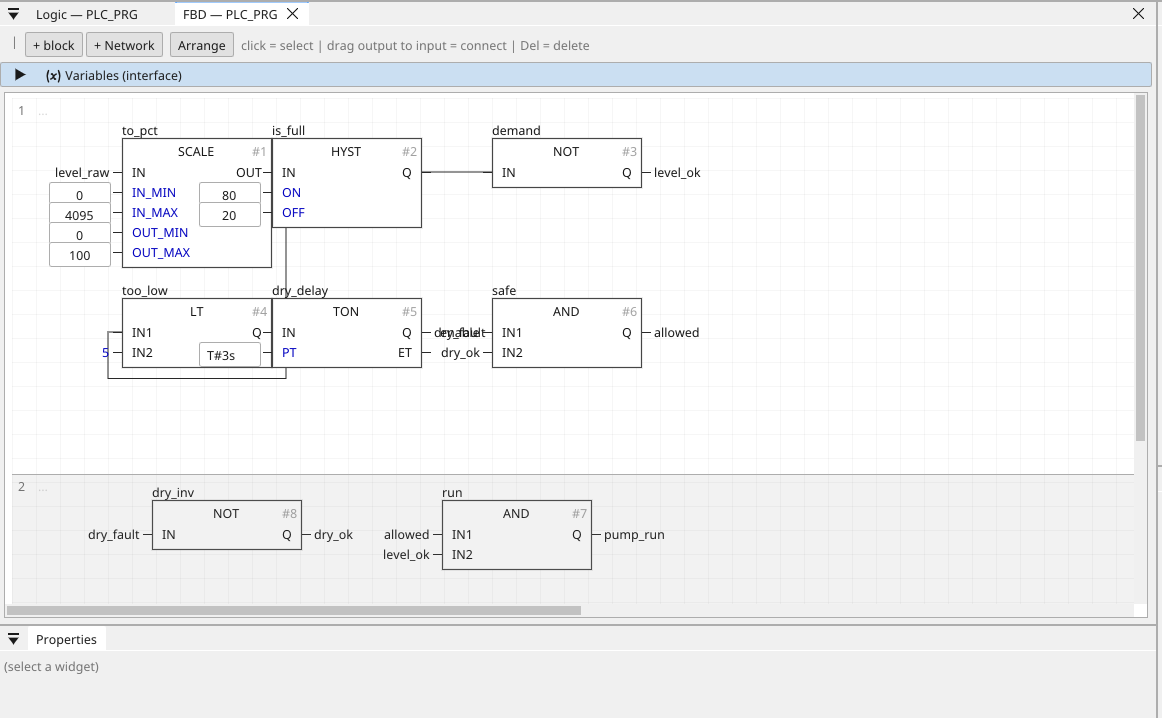
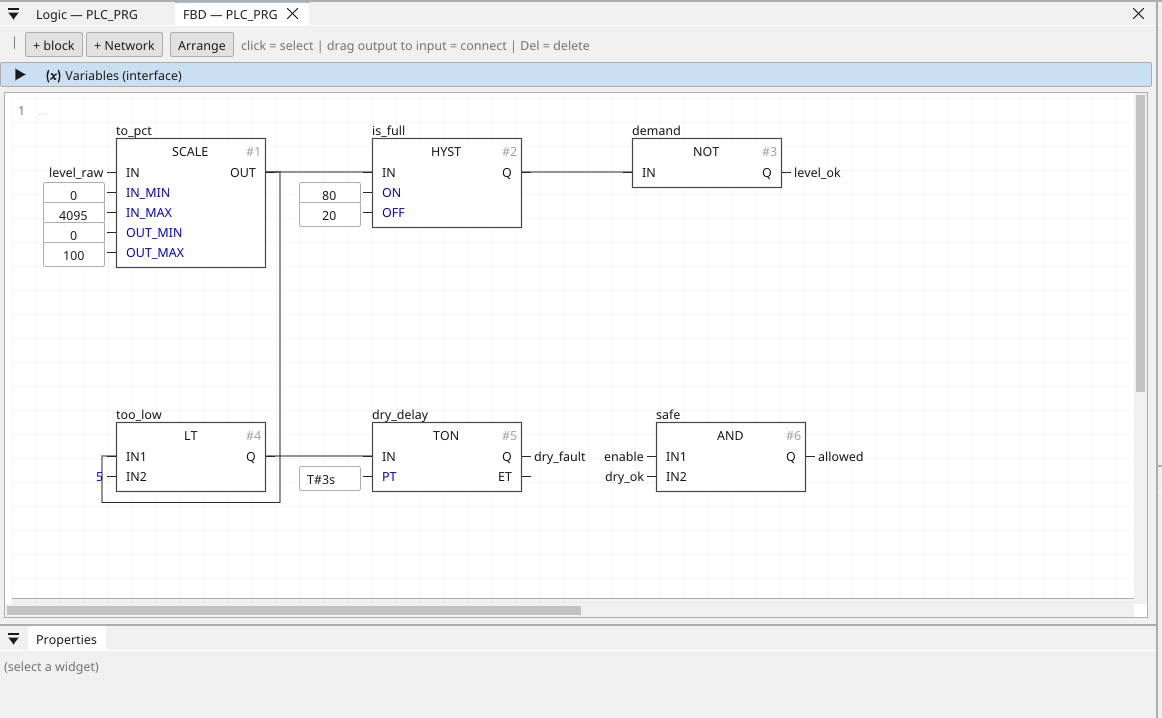
FBD: orthogonal wires and the no-overlap rule in the mouse section; the networks screenshot

diff --git a/docs/editor-controls.md b/docs/editor-controls.md
@@ -106,8 +106,12 @@ selection, `Ctrl+Z` takes anything back.
   (*+ Network*; right-click the number lane to insert, move or delete
   one); blocks come from the **Toolbox** (click adds into the
   selected network); wires are drawn **pin to pin** — click an
-  output, click an input. A wire that would cross networks is
-  refused.
+  output, click an input — and run as horizontal and vertical
+  segments, a signal that feeds a block to its left goes around
+  underneath. A wire that would cross networks is refused. Blocks
+  never overlap: a block occupies its box and the names beside its
+  pins, a block dropped onto another is moved clear to the right, and
+  *Arrange* lays the columns out as wide as their blocks need.
 - **ST**: a plain text editor with completion; the declaration pane
   above applies with `Ctrl+Enter`.
 
